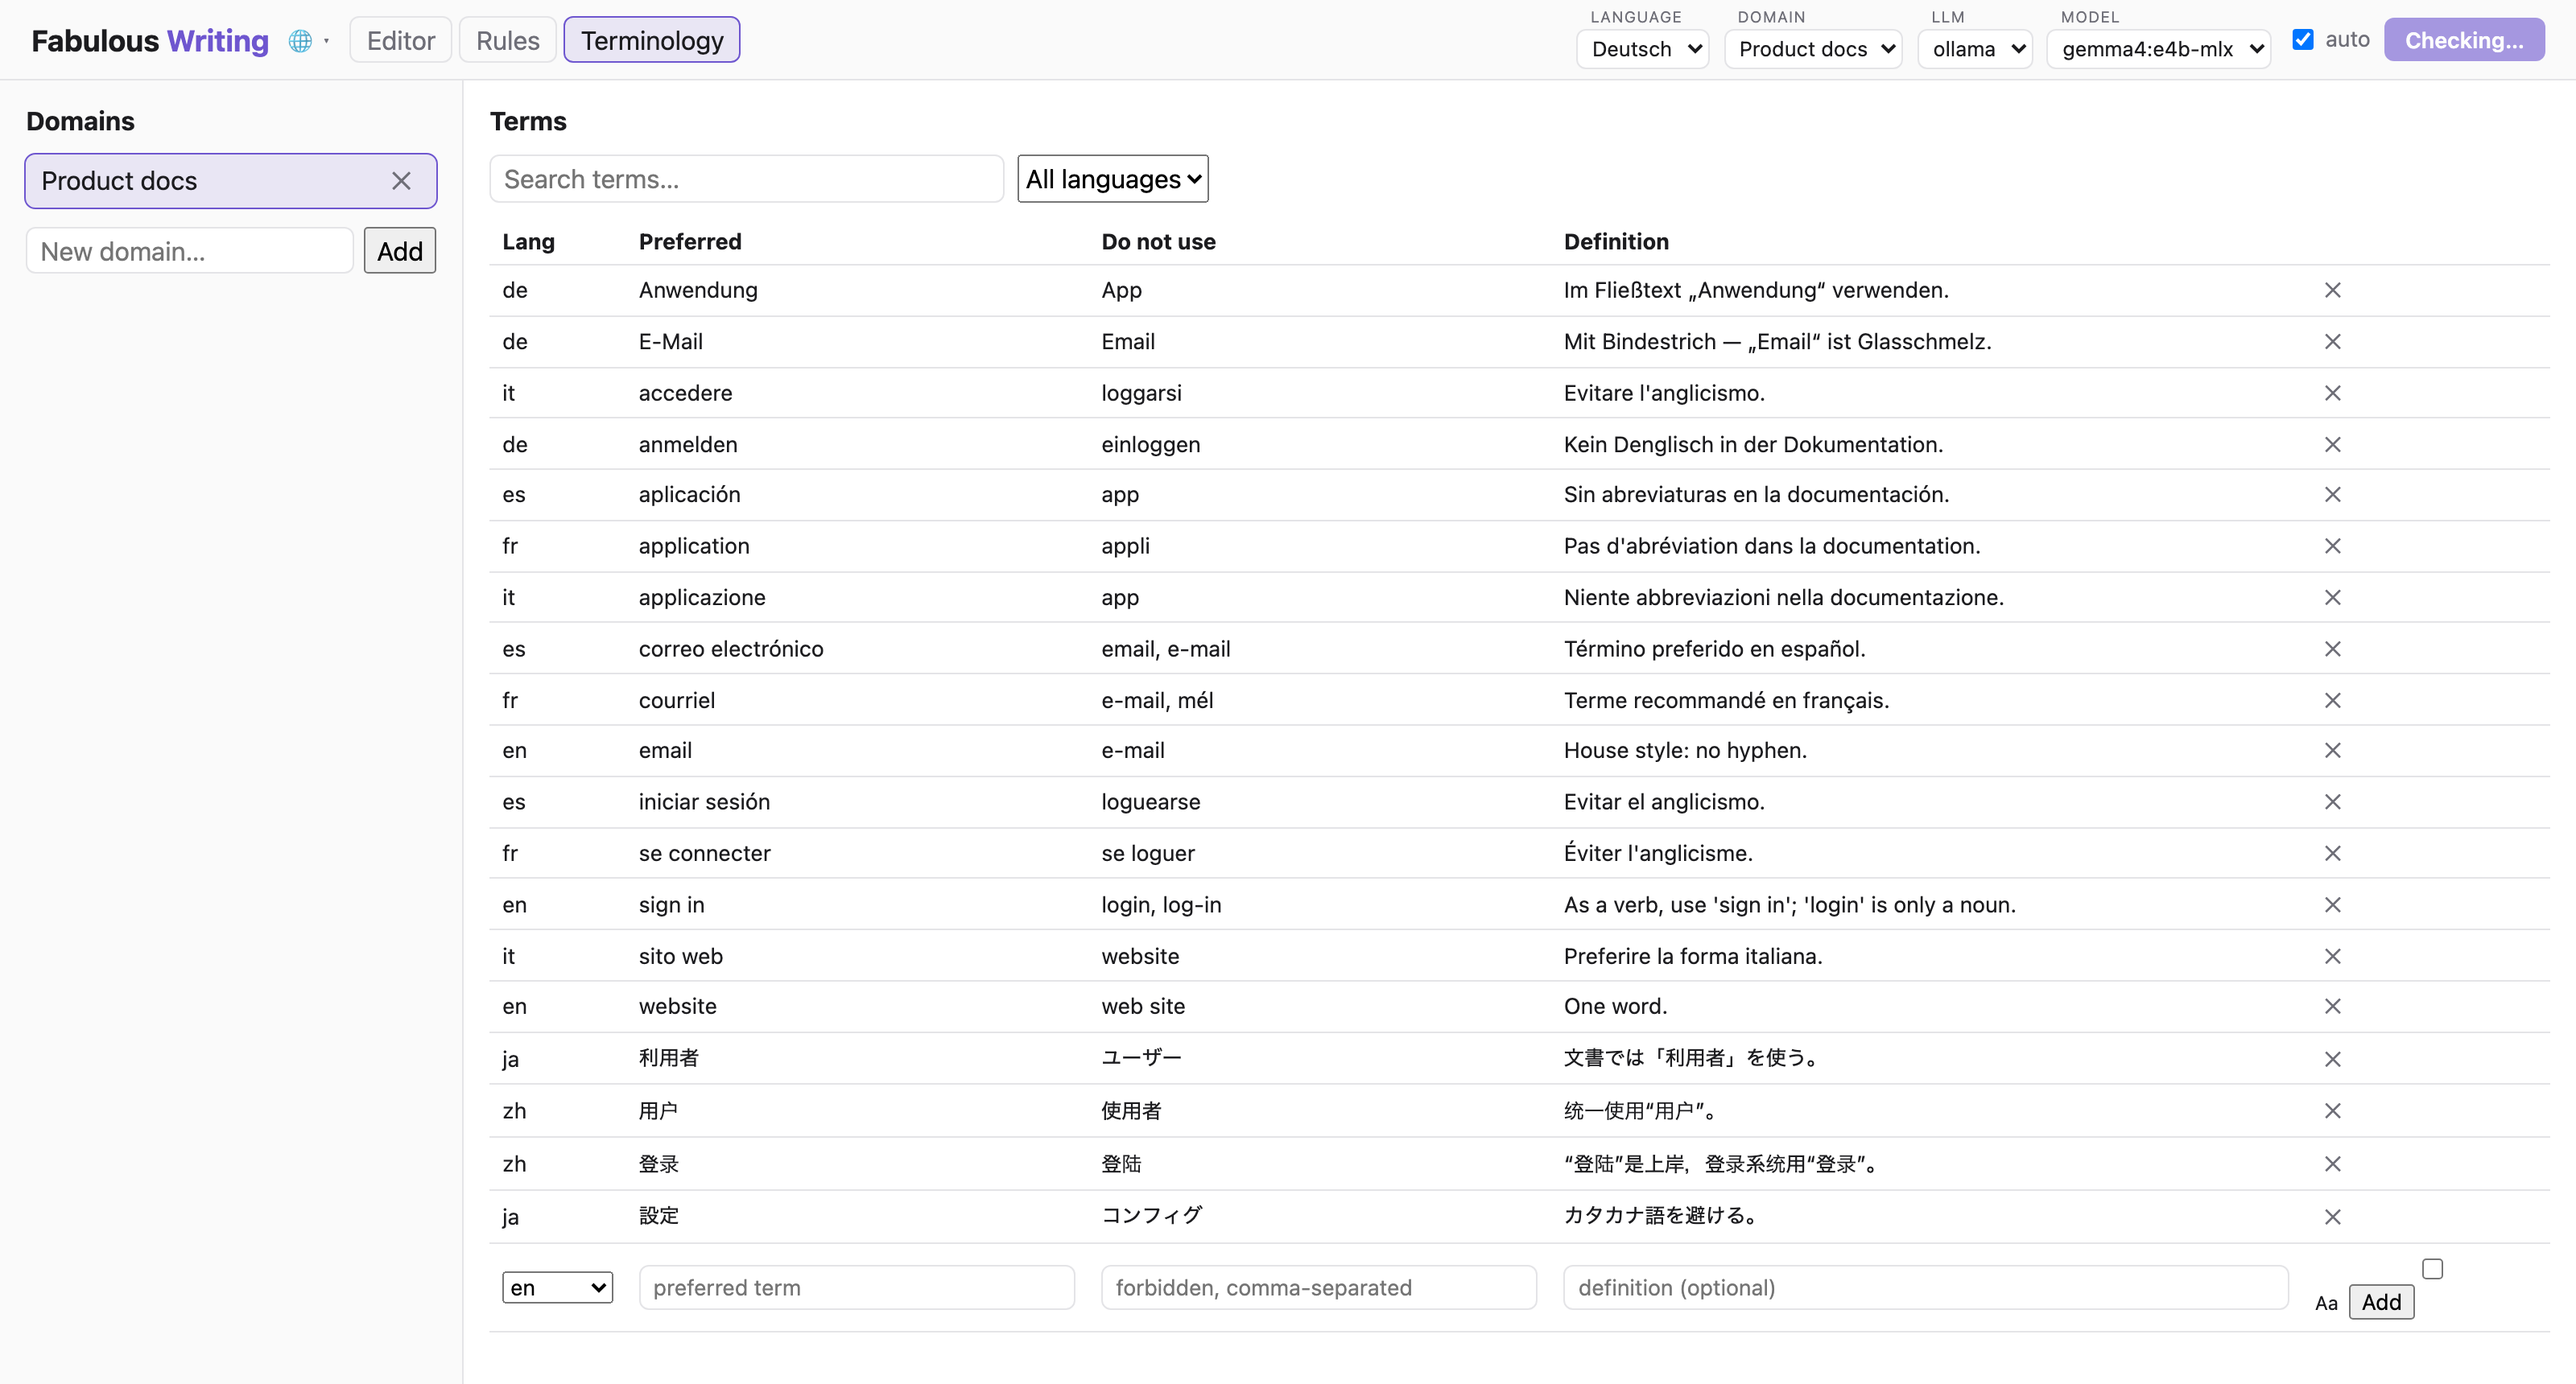
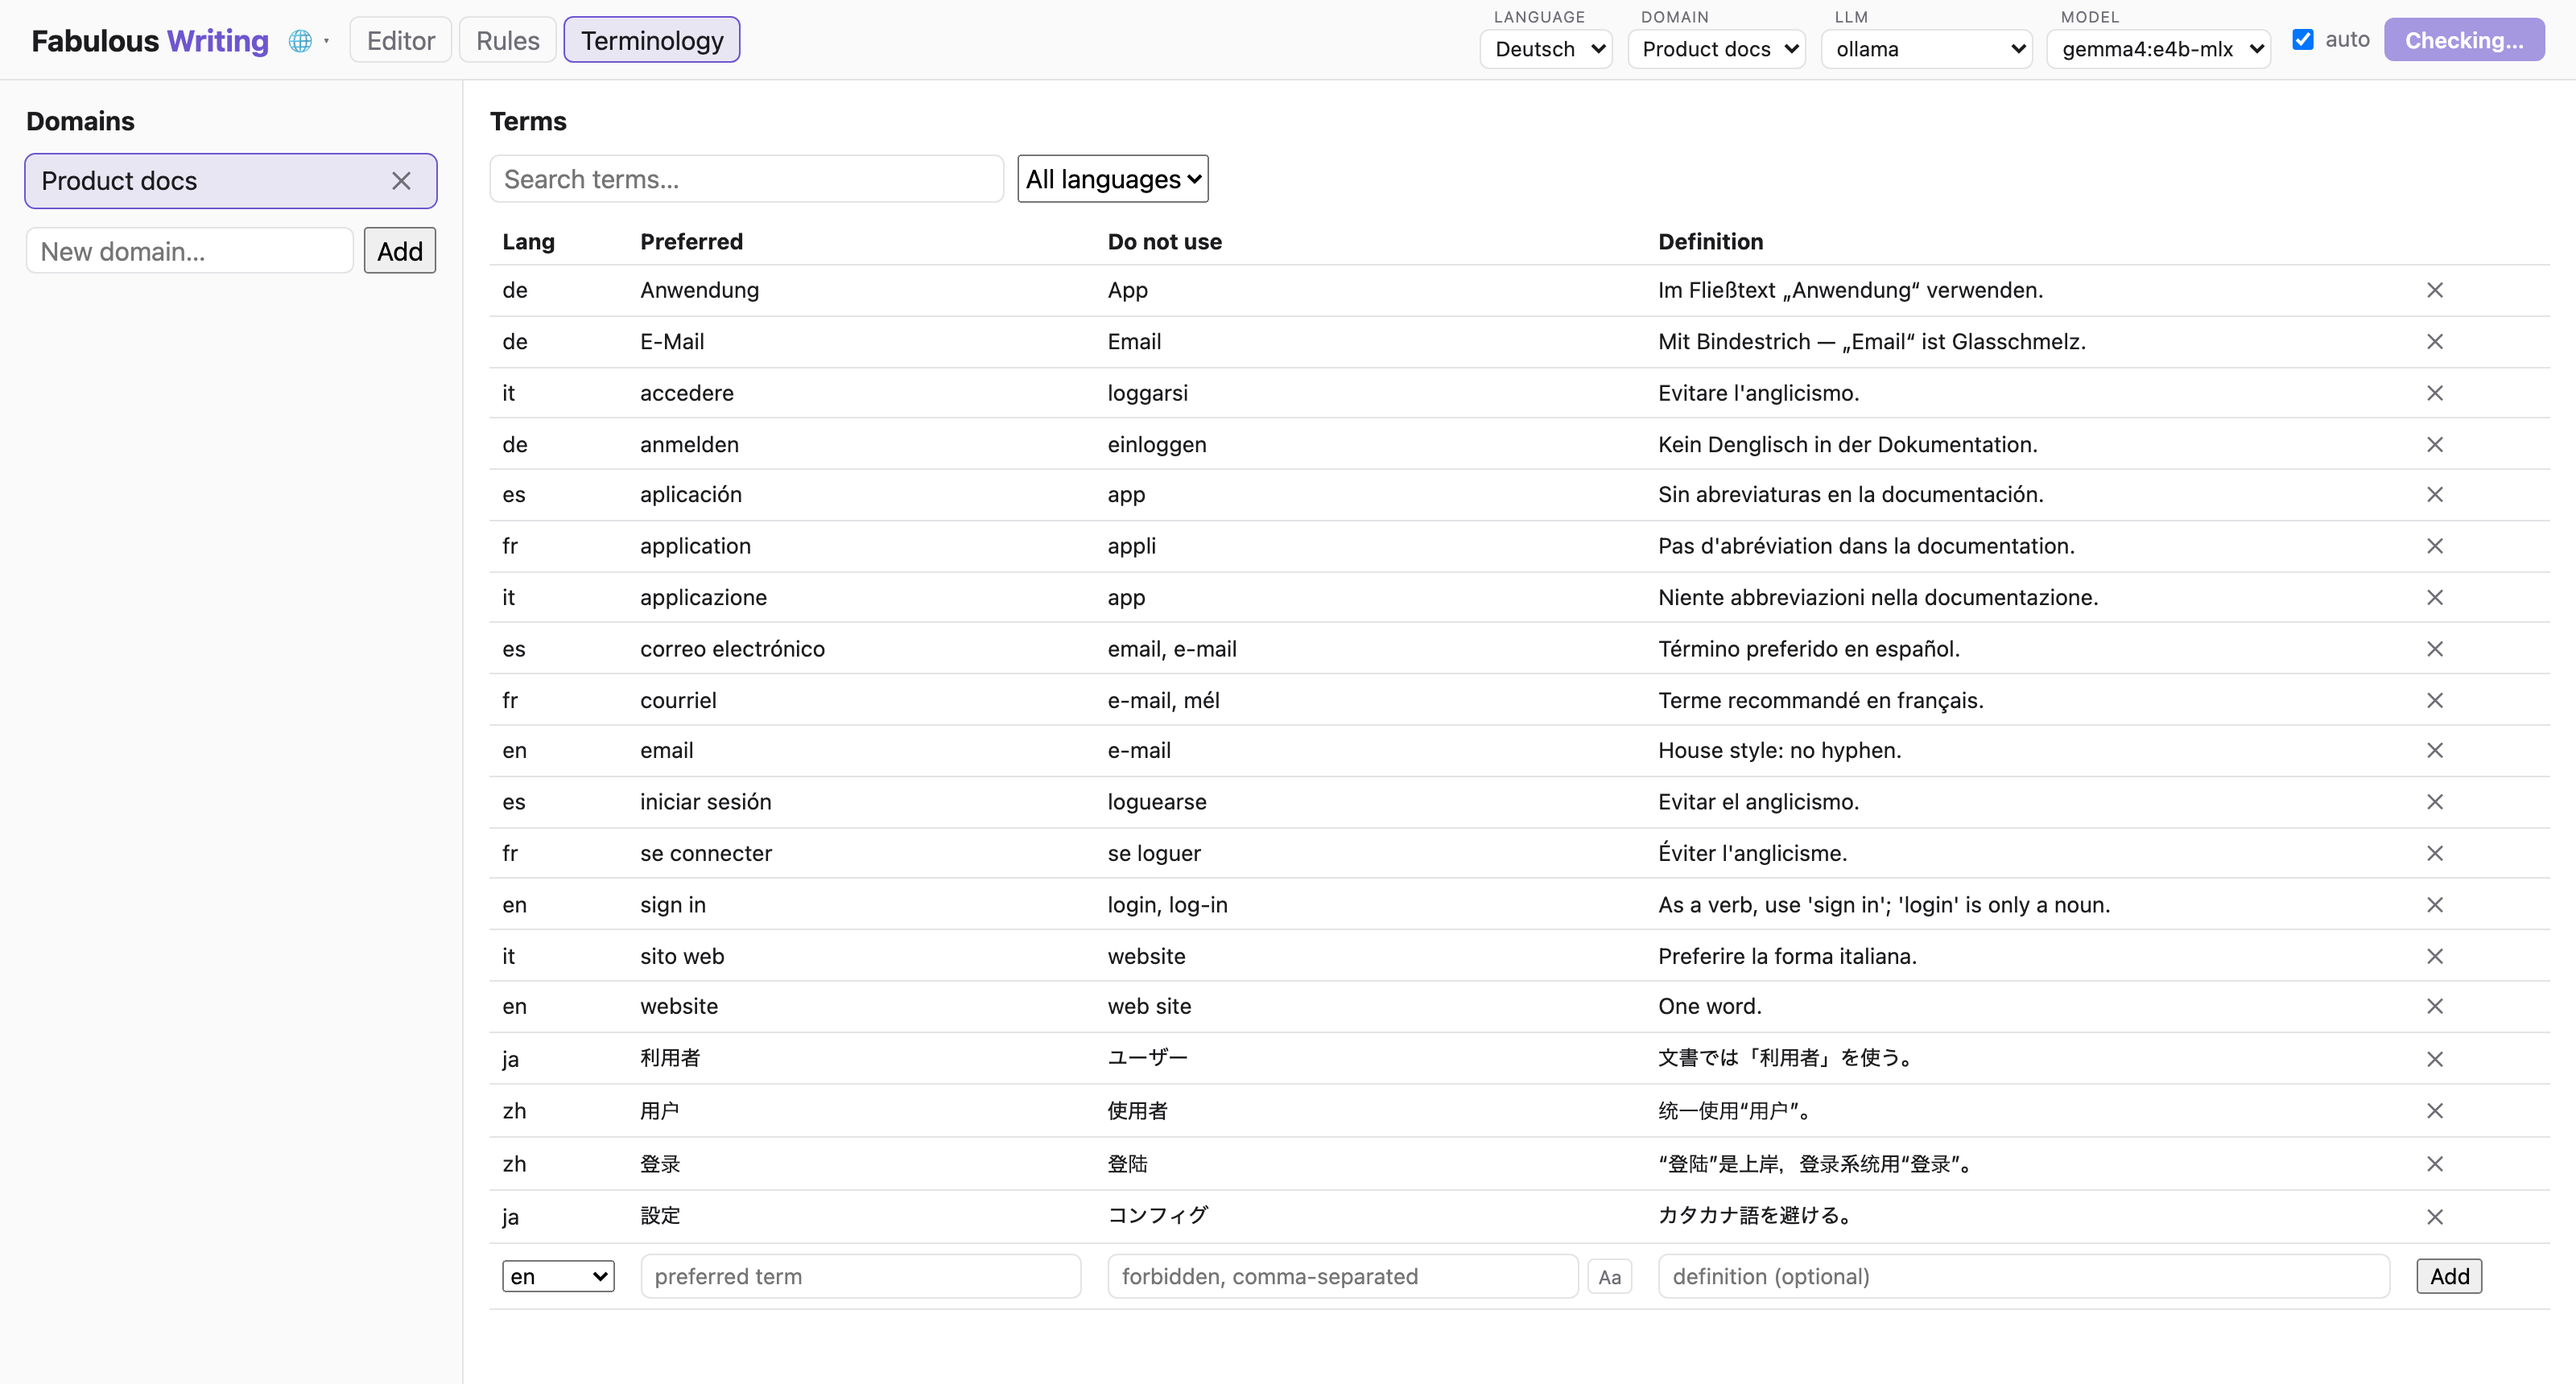
Document terminology case-sensitivity semantics

diff --git a/docs/LOGBOOK.md b/docs/LOGBOOK.md
@@ -362,3 +362,28 @@ accreted into the intro — the Hunspell install instructions, GiNZA
 version caveats, and the vetting benchmark now live in the setup and
 developer sections. Cross-references use GitHub heading anchors
 (quick-start, writing-rules, the spaCy-models section).
+
+## 2026-07-05 — Terminology case sensitivity
+Commits: `9b67051`, `138233d`, `2d82eea`, `45c391a` (spec/plan: `a7887c3`)
+
+The `case_sensitive` flag on terms now means "casing matters" in full:
+forbidden variants keep matching exact-case, and wrong casing of the
+*preferred* term is flagged too, with the correct form as the one-click
+fix ("github" → "GitHub"). Previously the preferred term was never
+checked, and it couldn't be emulated with variants — a case-insensitive
+"github" variant would flag the correct "GitHub" as well. A
+sentence-start heuristic (text start, sentence punctuation + whitespace,
+newline + markdown markers) permits conventional capitalization of
+lowercase terms ("Sign in to…" passes, mid-sentence "Sign In" doesn't);
+casing findings overlapping a variant finding are dropped (variants
+win). All three matching paths covered: regex, CJK PhraseMatcher (a
+LOWER-attr pass catches Latin terms embedded in ja/zh text; pure CJK is
+case-free so lowercasing is identity), and the substring fallback.
+UI: the cryptic wrap-prone checkbox in the add row became a match-case
+"Aa" toggle button (aria-pressed + accent styling) sitting next to the
+forbidden-variants input it governs, and existing rows show an "Aa"
+badge — the flag was write-only before. No new i18n keys (the localized
+tooltip serves both), no API/DB changes. Verified live: API check
+flagged github/GITHUB/mid-sentence Sign In and allowed sentence-start
+"Sign in"; headless browser confirmed toggle state, badge, and one-line
+layout at 900px. 205 backend tests, 91 frontend tests.

diff --git a/README.md b/README.md
@@ -53,7 +53,10 @@ with its category, severity, and message, plus any load errors.
 
 The **Terminology** tab manages domain-specific wording per domain and language: each
 term has a preferred form, forbidden variants, and an optional definition. Forbidden
-variants found in your text are flagged with the preferred term as a one-click fix. The
+variants found in your text are flagged with the preferred term as a one-click fix.
+Marking a term *case-sensitive* (the "Aa" toggle) makes variants match exact-case and
+additionally flags wrong casing of the preferred term itself (e.g. "Github" →
+"GitHub") — conventional capitalization at sentence starts is allowed. The
 table can be sorted by any column (click a header; multiple sort criteria stack),
 filtered by language, and searched as you type.
 
